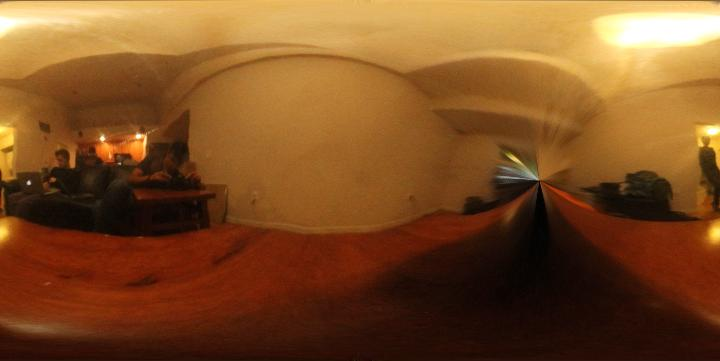
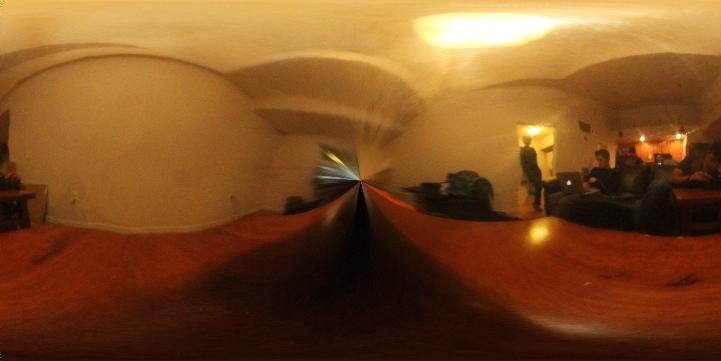
Cubemap code and results images

diff --git a/project4/mirrorball2cubemap.m b/project4/mirrorball2cubemap.m
@@ -1,0 +1,128 @@
+function cubemap = mirrorball2cubemap( mirrorball_hdr )
+    offset1 = pi/2; % offsets used later to center images
+    offset2 = pi/2;
+    
+    cmap = parula(256);
+
+    mirrorball_hdr = im2double(mirrorball_hdr);
+    [rows, cols, dim] = size(mirrorball_hdr);
+    assert(rows==cols,'Mirror ball image must be square!');
+    
+    %Create cubemap image here
+    [X, Y] = meshgrid(1:cols, 1:rows);
+    X = (X-cols/2)/(cols/2); % X now holds the x coord of each pixel
+    Y = -(Y-cols/2)/(cols/2); % Y now holds the y coord of each pixel
+    Z = sqrt(1-(X.*X + Y.*Y)); % Z = sqrt(1-(x^2+y^2)) for each pixel
+    Z(imag(Z) ~= 0) = 0; % remove imaginary z coords (those outside of sphere)
+    mask = Z ~= 0;
+    X = mask .* X;
+    Y = mask .* Y;
+    
+    N = cat(4, X, Y, Z); % N represents surface normal for pixel
+    V = zeros(size(N)); % V is view vector at each pixel
+    V(:,:,3) = -1;
+    R = V - repmat(2 .* -Z, 1, 1, 1, 3) .* N; % R holds reflection vector for each pixel
+    theta_ball = acos(R(:,:,2)); % Get the theta coord for this pixel
+    phi_ball = atan2(R(:,:,3), R(:,:,1)); % Get the phi coord for this pixel
+    % Offset phi values
+    phi_ball = phi_ball + offset1;
+    phi_ball(phi_ball > pi) = phi_ball(phi_ball > pi) - 2*pi;
+    phi_ball(phi_ball < -pi) = phi_ball(phi_ball < -pi) + 2*pi;
+%     Rim = reshape(R, rows,cols,3);
+%     figure(9),imagesc(Rim), axis image, colormap default
+%     imwrite(Rim, './results/reflection_mb.jpg');
+%     Nim = reshape(N, rows,cols,3);
+%     figure(9),imagesc(Nim), axis image, colormap default
+%     imwrite(Nim, './results/normal_mb.jpg');
+%     I = mask.*phi_ball - pi*~mask;
+%     figure(5),imagesc(I), axis image, colormap default
+%     m = I - min(I(:));
+%     m = max(m(:));
+%     imwrite(255*(I-min(I(:))) ./ m, cmap, './results/phi_mb.jpg');
+%     I = mask.*theta_ball;
+%     figure(6),imagesc(I), axis image, colormap default
+%     m = I - min(I(:));
+%     m = max(m(:));
+%     imwrite( 255*(I-min(I(:))) ./ m, cmap, './results/theta_mb.jpg');
+    
+    % Reshape matrices
+    phi_ball = reshape(phi_ball, rows*cols, 1);
+    theta_ball = reshape(theta_ball, rows*cols, 1);
+    mirrorball_hdr = reshape(repmat(mask, 1,1,3) .* mirrorball_hdr, rows*cols, 1, dim);
+    
+    X = zeros(4*180, 3*180);
+    Y = zeros(4*180, 3*180);
+    Z = zeros(4*180, 3*180);
+    % +Y
+    [x,z] = meshgrid(-1:2/179:1, -1:2/179:1);
+    X(1:180,181:360) = x;
+    Y(1:180,181:360) = 1;
+    Z(1:180,181:360) = z;
+    % +Z
+    [x,y] = meshgrid(-1:2/179:1, 1:-2/179:-1);
+    X(181:360,181:360) = x;
+    Y(181:360,181:360) = y;
+    Z(181:360,181:360) = 1;
+    % +X
+    [z,y] = meshgrid(1:-2/179:-1, 1:-2/179:-1);
+    X(181:360,361:540) = 1;
+    Y(181:360,361:540) = y;
+    Z(181:360,361:540) = z;
+    % -Y
+    [x,z] = meshgrid(-1:2/179:1, 1:-2/179:-1);
+    X(361:540,181:360) = x;
+    Y(361:540,181:360) = -1;
+    Z(361:540,181:360) = z;
+    % -Z
+    [x,y] = meshgrid(-1:2/179:1, -1:2/179:1);
+    X(541:720,181:360) = x;
+    Y(541:720,181:360) = y;
+    Z(541:720,181:360) = -1;
+    % -X
+    [z,y] = meshgrid(-1:2/179:1, 1:-2/179:-1);
+    X(181:360,1:180) = -1;
+    Y(181:360,1:180) = y;
+    Z(181:360,1:180) = z;
+    
+    maskcm = (X ~= 0) | (Y~= 0 ) | (Z~= 0);
+    figure(3),imagesc(maskcm), axis image, colormap gray
+    
+    % Normalize direction vector
+    m = sqrt(X.*X + Y.*Y + Z.*Z);
+    X = X ./ m;
+    Y = Y ./ m;
+    Z = Z ./ m;
+    
+    N = cat(4, X, Y, Z);
+    Nim = reshape(N, size(X,1),size(X,2),3);
+    figure(10),imagesc(Nim), axis image, colormap default
+    imwrite(Nim, './results/normal_cm.jpg');
+   
+    theta_cm = acos(Y); % Get the theta coord for this pixel
+    phi_cm = atan2(Z, X); % Get the phi coord for this pixel
+    phi_cm = phi_cm .* ~isnan(phi_cm); % Remove any NaN entries
+    phi_cm = phi_cm+offset2;
+    phi_cm(phi_cm > pi) = phi_cm(phi_cm > pi) -2*pi;
+    phi_cm(phi_cm < -pi) = phi_cm(phi_cm < -pi) +2*pi;
+    phi_cm(phi_cm == 0) = pi;
+    phi_cm(maskcm.*phi_cm == 0) = 2*pi;
+    
+%     I = maskcm.*phi_cm;
+%     figure(7),imagesc(I), axis image, colormap default
+%     m = I - min(I(:));
+%     m = max(m(:));
+%     imwrite(255*(I-min(I(:))) ./ m, cmap, './results/phi_cm.jpg');
+%     
+%     I = maskcm.*theta_cm + ~maskcm.*pi/2;
+%     figure(8),imagesc(I), axis image, colormap default
+%     m = I - min(I(:));
+%     m = max(m(:));
+%     imwrite(255*(I-min(I(:))) ./ m, cmap, './results/theta_cm.jpg');
+    
+    cubemap = zeros(size(theta_cm));
+    for i = 1:dim
+        F = scatteredInterpolant(phi_ball, theta_ball, mirrorball_hdr(:,i));
+        cubemap(:,:,i) = maskcm.*F(phi_cm, theta_cm);
+    end
+        
+end

diff --git a/project4/latlon2cubemap.m b/project4/latlon2cubemap.m
@@ -1,0 +1,81 @@
+function cubemap = latlon2cubemap( )
+    offset = -pi/2;
+    cmap = parula(256);
+
+    equirectangular = im2double(imread('./results/equirectangular.jpg'));
+    [rows, cols, dim] = size(equirectangular);
+    
+    [phis, thetas] = meshgrid([-pi:2*pi/(cols-1):pi], 0:pi/(rows-1):pi);
+    I = phis;
+    m = I - min(I(:));
+    m = max(m(:));
+    imwrite(255*(I-min(I(:))) ./ m, cmap, './results/phi_eq.jpg');
+    figure(2),imagesc(I), axis image, colormap default
+    I = thetas;
+    m = I - min(I(:));
+    m = max(m(:));
+    imwrite(255*(I-min(I(:))) ./ m, cmap, './results/theta_eq.jpg');
+    figure(3),imagesc(I), axis image, colormap default
+    phi_er = reshape(phis, rows*cols, 1);
+    phi_er = phi_er+offset;
+    phi_er(phi_er > pi) = phi_er(phi_er > pi) -2*pi;
+    phi_er(phi_er < -pi) = phi_er(phi_er < -pi) +2*pi;
+    theta_er = reshape(thetas, rows*cols, 1);
+    equirectangular = reshape(equirectangular, rows*cols, 1, dim);
+    
+    X = zeros(4*180, 3*180);
+    Y = zeros(4*180, 3*180);
+    Z = zeros(4*180, 3*180);
+    % +Y
+    [x,z] = meshgrid(-1:2/179:1, -1:2/179:1);
+    X(1:180,181:360) = x;
+    Y(1:180,181:360) = 1;
+    Z(1:180,181:360) = z;
+    % +Z
+    [x,y] = meshgrid(-1:2/179:1, 1:-2/179:-1);
+    X(181:360,181:360) = x;
+    Y(181:360,181:360) = y;
+    Z(181:360,181:360) = 1;
+    % +X
+    [z,y] = meshgrid(1:-2/179:-1, 1:-2/179:-1);
+    X(181:360,361:540) = 1;
+    Y(181:360,361:540) = y;
+    Z(181:360,361:540) = z;
+    % -Y
+    [x,z] = meshgrid(-1:2/179:1, 1:-2/179:-1);
+    X(361:540,181:360) = x;
+    Y(361:540,181:360) = -1;
+    Z(361:540,181:360) = z;
+    % -Z
+    [x,y] = meshgrid(-1:2/179:1, -1:2/179:1);
+    X(541:720,181:360) = x;
+    Y(541:720,181:360) = y;
+    Z(541:720,181:360) = -1;
+    % -X
+    [z,y] = meshgrid(-1:2/179:1, 1:-2/179:-1);
+    X(181:360,1:180) = -1;
+    Y(181:360,1:180) = y;
+    Z(181:360,1:180) = z;
+    
+    maskcm = (X ~= 0) | (Y~= 0 ) | (Z~= 0);
+    figure(3),imagesc(maskcm), axis image, colormap default
+   
+    % Normalize direction vector
+    m = sqrt(X.*X + Y.*Y + Z.*Z);
+    X = X ./ m;
+    Y = Y ./ m;
+    Z = Z ./ m;
+   
+    theta_cm = acos(Y); % Get the theta coord for this pixel
+    phi_cm = atan2(Z, X); % Get the phi coord for this pixel
+    phi_cm = phi_cm .* ~isnan(phi_cm); % Remove any NaN entries
+    figure(7),imagesc(maskcm.*phi_cm), axis image, colormap default
+    figure(8),imagesc(maskcm.*theta_cm + ~maskcm.*pi/2), axis image, colormap default
+    
+    cubemap = zeros(size(theta_cm));
+    for i = 1:dim
+        F = scatteredInterpolant(phi_er, theta_er, equirectangular(:,i));
+        cubemap(:,:,i) = maskcm.*F(phi_cm, theta_cm);
+    end
+        
+end

diff --git a/project4/mirrorball2latlon.m b/project4/mirrorball2latlon.m
@@ -1,3 +1,5 @@
+
+
 function latlon = mirrorball2latlon( mirrorball_hdr )
     offset = pi/2; % offset used later to center image
 
@@ -6,13 +8,7 @@ function latlon = mirrorball2latlon( mirrorball_hdr )
     assert(rows==cols,'Mirror ball image must be square!');
     
     %Create equirectangular (latitude-longitude) image here
-    X = zeros(rows, cols);
-    temp = 1:cols;
-    X(:,:) = repmat(temp, rows, 1);
-    Y = zeros(rows, cols);
-    temp = 1:rows;
-    temp = reshape(temp, rows, 1);
-    Y(:,:) = repmat(temp, 1, cols);
+    [X, Y] = meshgrid(1:cols, 1:rows);
     X = (X-cols/2)/(cols/2); % X now holds the x coord of each pixel
     Y = -(Y-cols/2)/(cols/2); % Y now holds the y coord of each pixel
     Z = sqrt(1-(X.*X + Y.*Y)); % Z = sqrt(1-(x^2+y^2)) for each pixel
@@ -27,13 +23,14 @@ function latlon = mirrorball2latlon( mirrorball_hdr )
     % Offset phi values
     phi_ball = phi_ball+offset;
     phi_ball(phi_ball > pi) = phi_ball(phi_ball > pi) -2*pi;
+    phi_ball(phi_ball < -pi) = phi_ball(phi_ball < -pi) +2*pi;
     
     % Reshape matrices
     phi_ball = reshape(phi_ball, rows*cols, 1);
     theta_ball = reshape(theta_ball, rows*cols, 1);
     mirrorball_hdr = reshape(mirrorball_hdr, rows*cols, 1, dim);
     
-    [phis, thetas] = meshgrid([-pi:pi/360:pi], 0:pi/360:pi);
+    [phis, thetas] = meshgrid([-pi:pi/359:pi], 0:pi/359:pi);
     latlon = zeros(size(thetas));
     for i = 1:dim
         F = scatteredInterpolant(phi_ball, theta_ball, mirrorball_hdr(:,i));

diff --git a/project4/main.m b/project4/main.m
@@ -1,3 +1,6 @@
+close all;
+colormap(parula);
+
 ldr1 = im2uint8(imread('./samples/1:50.jpg'));
 ldr2 = im2uint8(imread('./samples/1:10.jpg'));
 ldr3 = im2uint8(imread('./samples/10.jpg'));
@@ -17,9 +20,17 @@ subplot(1,3,2), imagesc(ldr2), axis image, colormap default
 subplot(1,3,3), imagesc(ldr3), axis image, colormap default
 
 figure(2),imagesc(naive_hdr), axis image, colormap default
-% figure(3),imagesc(selective_hdr), axis image, colormap default
+% figure(3),imagesc(selective_hdr), axis image, colormap cdefault
 
-equirectangular = mirrorball2latlon(naive_hdr);
-figure(3),imagesc(equirectangular), axis image, colormap default
-imwrite(equirectangular, './results/equirectangular.jpg');
+% equirectangular = mirrorball2latlon(naive_hdr);
+% figure(3),imagesc(equirectangular), axis image, colormap default
+% imwrite(equirectangular, './results/equirectangular.jpg');
+
+cubemap = mirrorball2cubemap(naive_hdr);
+figure(4),imagesc(cubemap), axis image, colormap default
+imwrite(cubemap, './results/cubemap.jpg');
+
+% cubemap = latlon2cubemap();
+% figure(4),imagesc(cubemap), axis image, colormap default
+% imwrite(cubemap, './results/cubemap.jpg');
 
